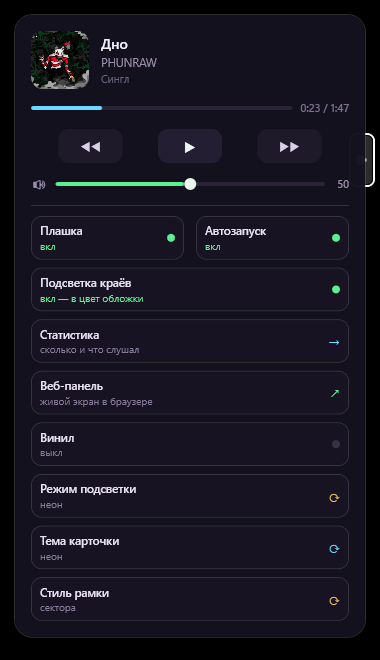
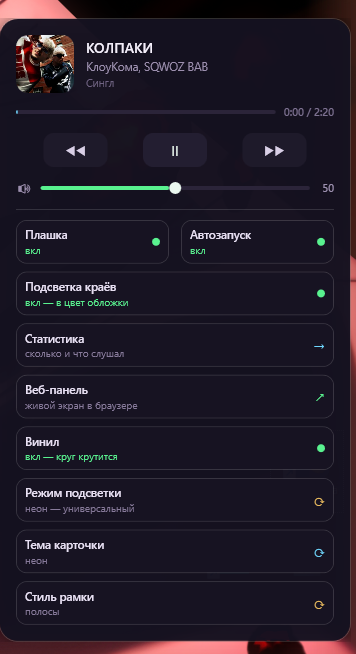
MediaToast 3.0.1: три режима неоновой подсветки

diff --git a/src/MediaToast/GlowManager.cs b/src/MediaToast/GlowManager.cs
@@ -41,7 +41,6 @@ public sealed class GlowManager
     private double _breathT;
     private double _level;
     private double _jolt;
-    private double _energy;
     private int _doubleTicks;
     private int _lastBeatCount = -1;
     private string _style = "";
@@ -272,33 +271,33 @@ public sealed class GlowManager
             }
             catch { }
 
+            var preset = PresetKey();
             if (_lastBeatCount < 0) _lastBeatCount = beatCount;
             if (beatCount != _lastBeatCount)
             {
                 _lastBeatCount = beatCount;
-                _jolt = 0.55 + 0.45 * strength;
-                Flash();
-                if (strength > 0.6) _doubleTicks = 3;
+                _jolt = JoltBase(preset) + JoltRange(preset) * strength;
+                Flash(preset);
+                if (strength > DoubleThreshold(preset)) _doubleTicks = 3;
             }
             if (_doubleTicks > 0)
             {
                 _doubleTicks--;
-                if (_doubleTicks == 0) { _jolt = 0.85; Flash(); }
+                if (_doubleTicks == 0) { _jolt = DoubleJolt(preset); Flash(preset); }
             }
-            _jolt *= 0.90;
+            _jolt *= JoltDecay(preset);
 
             if (level > _level) _level = level;
             else _level = _level * 0.90 + level * 0.10;
 
             double period = Period();
-            _energy = _energy * 0.995 + _level * 0.005;
 
             double op = 0;
             if (!_paused)
             {
                 var offsets = new[] { 0.0, 0.34, 0.18, 0.52 };
                 double breath = 0.5 + 0.5 * Math.Sin(2.0 * Math.PI * (_breathT + offsets[0]) / period);
-                op = 0.10 + 0.36 * breath + _level * 0.20 + _jolt * 0.65;
+                op = BaseOpacity(preset) + BreathAmp(preset) * breath + _level * LevelAmp(preset) + _jolt * JoltAmp(preset);
                 if (op < 0.01) op = 0;
                 if (op > 1.0) op = 1.0;
                 foreach (var edge in _edges)
@@ -314,27 +313,39 @@ public sealed class GlowManager
         catch { }
     }
 
+    private string PresetKey()
+    {
+        var p = (_settings.GlowPreset ?? "").Trim().ToLowerInvariant();
+        if (p == "neon-calm") return "calm";
+        if (p == "neon-hard") return "hard";
+        return "universal";
+    }
+
+    private static double BasePeriod(string p) => p switch { "calm" => 4.4, "hard" => 2.6, _ => 3.2 };
+    private static double BaseOpacity(string p) => p switch { "calm" => 0.08, "hard" => 0.12, _ => 0.10 };
+    private static double BreathAmp(string p) => p switch { "calm" => 0.30, "hard" => 0.42, _ => 0.36 };
+    private static double LevelAmp(string p) => p switch { "calm" => 0.16, "hard" => 0.26, _ => 0.20 };
+    private static double JoltAmp(string p) => p switch { "calm" => 0.42, "hard" => 0.85, _ => 0.65 };
+    private static double JoltBase(string p) => p switch { "calm" => 0.35, "hard" => 0.70, _ => 0.55 };
+    private static double JoltRange(string p) => p switch { "calm" => 0.35, "hard" => 0.50, _ => 0.45 };
+    private static double JoltDecay(string p) => p switch { "calm" => 0.88, "hard" => 0.925, _ => 0.90 };
+    private static double DoubleThreshold(string p) => p switch { "calm" => 0.80, "hard" => 0.45, _ => 0.60 };
+    private static double DoubleJolt(string p) => p switch { "calm" => 0.60, "hard" => 1.00, _ => 0.85 };
+    private static double FlashGrow(string p) => p switch { "calm" => 1.22, "hard" => 1.52, _ => 1.38 };
+    private static double FlashWide(string p) => p switch { "calm" => 1.10, "hard" => 1.24, _ => 1.18 };
+
     private double Period()
     {
-        double basePeriod = 3.2;
-        switch ((_settings.GlowPreset ?? "neon").ToLowerInvariant())
-        {
-            case "calm": basePeriod = 4.6; break;
-            case "fire": basePeriod = 2.2; break;
-            case "auto":
-                if (_energy > 0.62) basePeriod = 2.2;
-                else if (_energy < 0.28) basePeriod = 4.4;
-                else basePeriod = 3.2;
-                break;
-            default: basePeriod = 3.2; break;
-        }
+        double basePeriod = BasePeriod(PresetKey());
         double b = _settings.BreathSeconds;
         if (b > 0.5 && b < 12) basePeriod = basePeriod * (b / 3.2);
         return basePeriod;
     }
 
-    private void Flash()
+    private void Flash(string preset)
     {
+        double growTo = FlashGrow(preset);
+        double wideTo = FlashWide(preset);
         foreach (var edge in _edges)
         {
             bool horizontal = edge.Side == "top" || edge.Side == "bottom";
@@ -354,13 +365,13 @@ public sealed class GlowManager
             {
                 var delay = TimeSpan.FromMilliseconds(sector.Index * 8);
                 var dur = TimeSpan.FromMilliseconds(90);
-                var grow = new DoubleAnimation(1.0, 1.38, dur)
+                var grow = new DoubleAnimation(1.0, growTo, dur)
                 {
                     AutoReverse = true,
                     BeginTime = delay,
                     EasingFunction = EaseOut
                 };
-                var wide = new DoubleAnimation(1.0, 1.18, dur)
+                var wide = new DoubleAnimation(1.0, wideTo, dur)
                 {
                     AutoReverse = true,
                     BeginTime = delay,

diff --git a/src/MediaToast/Settings.cs b/src/MediaToast/Settings.cs
@@ -16,7 +16,7 @@ public sealed class Settings
     public double CardWidth { get; set; } = 384;
     public double BreathSeconds { get; set; } = 3.2;
     public double GlowSensitivity { get; set; } = 0.12;
-    public string GlowPreset { get; set; } = "neon";
+    public string GlowPreset { get; set; } = "neon-universal";
     public string CardTheme { get; set; } = "neon";
     public string GlowStyle { get; set; } = "sectors";
     public bool GlowOn { get; set; } = true;
@@ -29,6 +29,22 @@ public sealed class Settings
         PropertyNamingPolicy = JsonNamingPolicy.CamelCase
     };
 
+    public static string NormalizePreset(string value)
+    {
+        switch ((value ?? "").Trim().ToLowerInvariant())
+        {
+            case "neon-calm":
+            case "calm":
+                return "neon-calm";
+            case "neon-hard":
+            case "fire":
+            case "hard":
+                return "neon-hard";
+            default:
+                return "neon-universal";
+        }
+    }
+
     public static Settings Load()
     {
         try
@@ -37,7 +53,16 @@ public sealed class Settings
             {
                 var json = File.ReadAllText(FilePath, System.Text.Encoding.UTF8);
                 var s = JsonSerializer.Deserialize<Settings>(json, Options);
-                if (s != null) return s;
+                if (s != null)
+                {
+                    var preset = NormalizePreset(s.GlowPreset);
+                    if (preset != s.GlowPreset)
+                    {
+                        s.GlowPreset = preset;
+                        s.Save();
+                    }
+                    return s;
+                }
             }
         }
         catch (Exception ex)
@@ -56,6 +81,7 @@ public sealed class Settings
                 if (s != null)
                 {
                     s.ToastOn = true;
+                    s.GlowPreset = NormalizePreset(s.GlowPreset);
                     s.Save();
                     Log.Write("settings migrated from v2");
                     return s;

diff --git a/src/MediaToast/TrayApp.cs b/src/MediaToast/TrayApp.cs
@@ -69,16 +69,16 @@ public sealed class TrayApp
     private readonly DispatcherTimer _timer;
     private bool _syncing;
     private DateTime _lastHide = DateTime.MinValue;
+    private DateTime _lastPresetClick = DateTime.MinValue;
 
     private static readonly CubicEase EaseOut = new() { EasingMode = EasingMode.EaseOut };
     private static readonly CubicEase EaseIn = new() { EasingMode = EasingMode.EaseIn };
 
     private static string PresetName(string preset) => preset switch
     {
-        "calm" => "спокойный",
-        "fire" => "огонь",
-        "auto" => "авто по треку",
-        _ => "неон"
+        "neon-calm" => "неон — спокойный",
+        "neon-hard" => "неон — агрессивный",
+        _ => "неон — универсальный"
     };
 
     private static string ThemeName(string theme) => theme switch
@@ -156,7 +156,9 @@ public sealed class TrayApp
         _pillVinyl.MouseLeftButtonUp += (_, _) => { _app.ToggleVinyl(); Refresh(); };
         _pillPreset.MouseLeftButtonUp += (_, _) =>
         {
-            var order = new[] { "calm", "neon", "fire", "auto" };
+            if ((DateTime.UtcNow - _lastPresetClick).TotalMilliseconds < 250) return;
+            _lastPresetClick = DateTime.UtcNow;
+            var order = new[] { "neon-calm", "neon-hard", "neon-universal" };
             var i = Array.IndexOf(order, _app.Settings.GlowPreset);
             _app.SetGlowPreset(order[(i + 1 + order.Length) % order.Length]);
             Refresh();

diff --git a/README.md b/README.md
@@ -2,7 +2,7 @@
 
 Неоновая плашка «сейчас играет» в углу экрана, подсветка краёв под музыку, панель в трее и живая веб-страница. Теперь это одно приложение на **C# / WPF** и один установщик.
 
-Скачать: **[Releases → MediaToast-3.0.0-Setup.exe](https://github.com/Att4cking-812/MediaToast/releases/latest)**
+Скачать: **[Releases → MediaToast-3.0.1-Setup.exe](https://github.com/Att4cking-812/MediaToast/releases/latest)**
 
 Права администратора не нужны, .NET и PowerShell ставить не нужно — всё внутри установщика.
 
@@ -46,7 +46,7 @@
 
 ## Установка
 
-1. Скачай `MediaToast-3.0.0-Setup.exe` из [Releases](https://github.com/Att4cking-812/MediaToast/releases/latest).
+1. Скачай `MediaToast-3.0.1-Setup.exe` из [Releases](https://github.com/Att4cking-812/MediaToast/releases/latest).
 2. Запусти. Установщик спросит только автозапуск и (по желанию) ярлык на рабочем столе.
 3. Готово — в трее появится иконка, плашка и подсветка включатся сами.
 
@@ -60,7 +60,7 @@
 - **Плашка** — вкл/выкл показ карточки.
 - **Автозапуск** — вкл/выкл запуск при входе в Windows.
 - **Подсветка краёв** — вкл/выкл.
-- **Режим подсветки** — `спокойный`, `неон`, `огонь`, `авто по треку`.
+- **Режим подсветки** — `неон — спокойный`, `неон — агрессивный`, `неон — универсальный`.
 - **Тема карточки** — `неон`, `минимал`, `стекло`.
 - **Стиль рамки** — `сектора`, `полосы`.
 - **Винил** — круглая вращающаяся обложка.
@@ -76,7 +76,7 @@ dotnet publish MediaToast.csproj -c Release -r win-x64 --self-contained true -o 
 iscc installer.iss
 ```
 
-Готовый установщик появится в `dist\MediaToast-3.0.0-Setup.exe`.
+Готовый установщик появится в `dist\MediaToast-3.0.1-Setup.exe`.
 
 Исходники приложения: [`src/MediaToast`](src/MediaToast).
 
